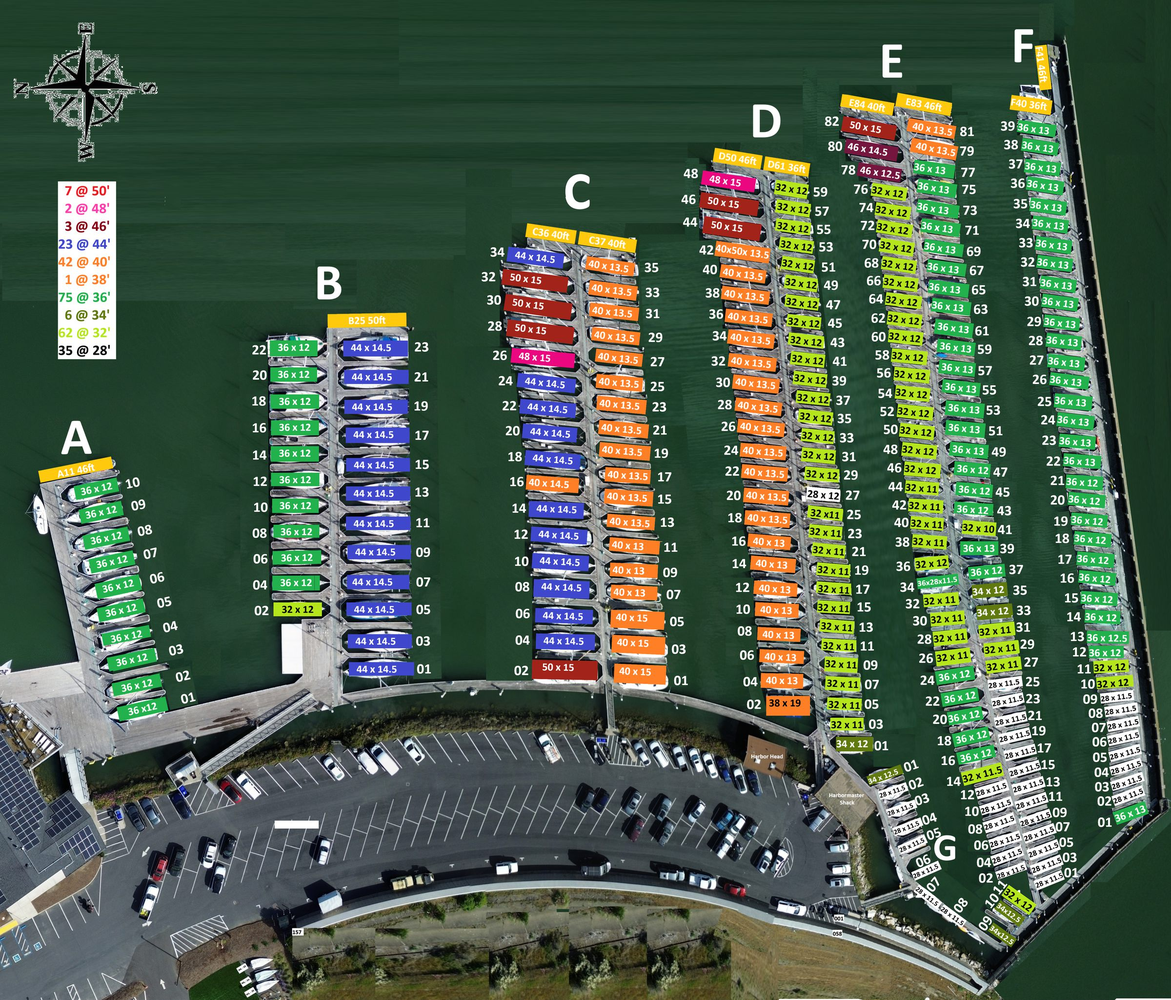
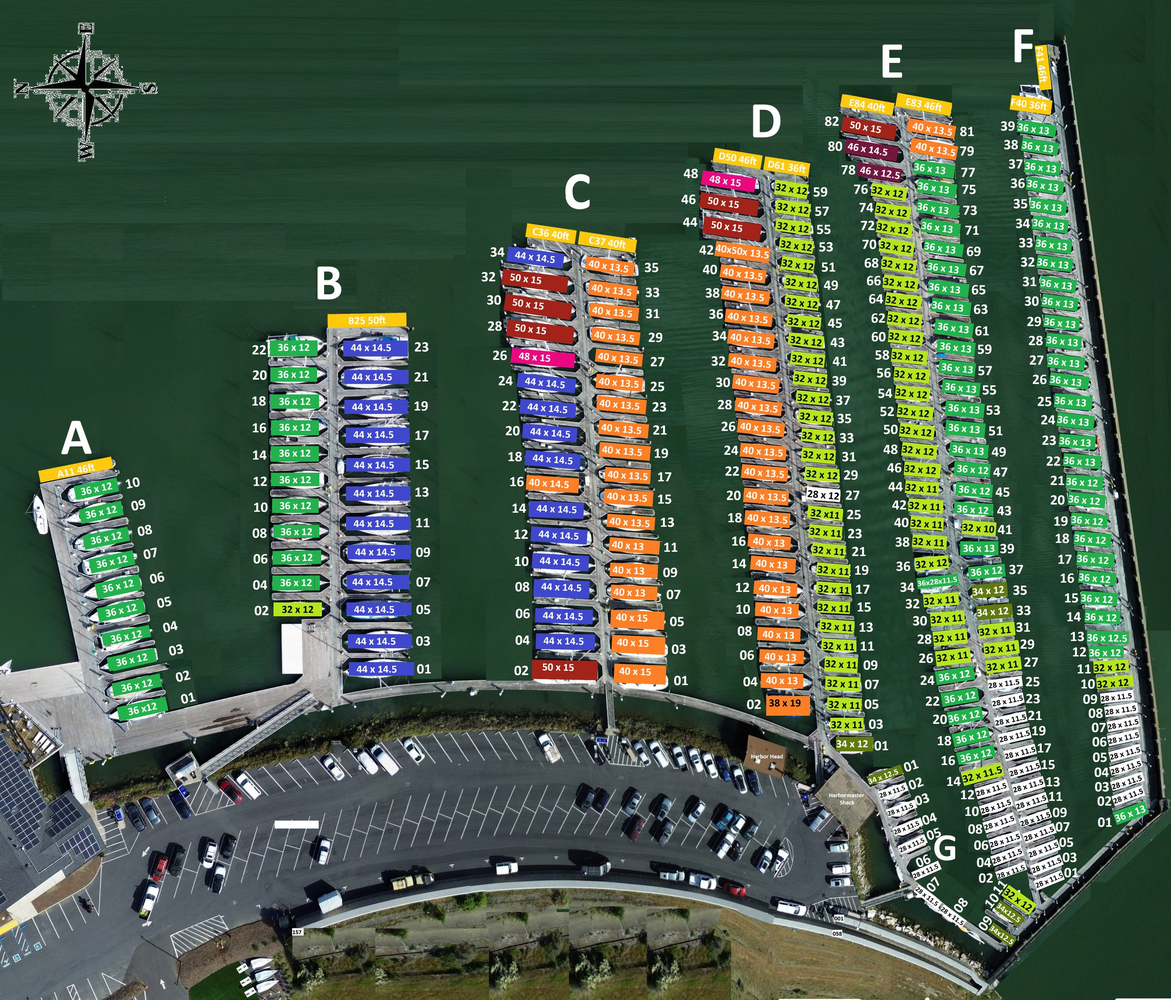
Keep flashing markers solid and remove the printed harbor legend

Changed region(s): [[0.0312, 0.1561, 0.125, 0.3746]]

diff --git a/index.html b/index.html
@@ -101,10 +101,15 @@ button.issue:hover { background: var(--soft) }
 .chip { cursor: pointer }
 .chip text { font: 700 12px var(--display); text-anchor: middle; dominant-baseline: central; pointer-events: none }
 .chip:hover rect { stroke: #fff !important; stroke-width: 2 !important }
-@keyframes chipflash { 50% { opacity: .12 } }
-.chip.flash { animation: chipflash 1.1s steps(1) infinite }
+/* The marker stays solid while it flashes, so the size printed on the drawing never shows through */
+@keyframes chipflash-rect { 50% { fill: #0b0f12 } }
+@keyframes chipflash-text { 50% { fill: #ffffff } }
+@keyframes chipflash-swatch { 50% { background: #0b0f12 } }
+.chip.flash rect { animation: chipflash-rect 1.1s steps(1) infinite }
+.chip.flash text { animation: chipflash-text 1.1s steps(1) infinite }
+.swatch.flash { animation: chipflash-swatch 1.1s steps(1) infinite; outline: 1px solid var(--line) }
 @media (prefers-reduced-motion: reduce) {
-  .chip.flash { animation: none }
+  .chip.flash rect, .chip.flash text, .swatch.flash { animation: none }
   .chip.flash rect { stroke: #fff !important; stroke-width: 3 !important; stroke-dasharray: 4 2 !important }
 }
 .chip .dot { fill: #ff5a1f; stroke: #fff; stroke-width: .8 }
@@ -459,7 +464,7 @@ function paintMap() {
 }
 function drawLegend() {
   const swatch = (c, extra = '') => `<i class="swatch" style="background:${c};${extra}"></i>`;
-  $('legend').innerHTML = `<span>${swatch(VACANT_RED)}Vacant</span><span><i class="swatch" style="background:${VACANT_RED};animation:chipflash 1.1s steps(1) infinite"></i>In process</span>`
+  $('legend').innerHTML = `<span>${swatch(VACANT_RED)}Vacant</span><span><i class="swatch flash" style="background:${VACANT_RED}"></i>In process</span>`
     + groupsIn(ui.yard).map(g => `<span class="opt">${swatch(g.fill, 'outline:1px solid var(--line);')}${g.name}</span>`).join('')
     + `<span class="opt">${swatch('none', 'outline:1.5px dashed ' + VACANT_RED + ';')}Not in sheet</span><span class="opt">${swatch('#ff5a1f', 'border-radius:50%;')}Action note</span>`;
 }
